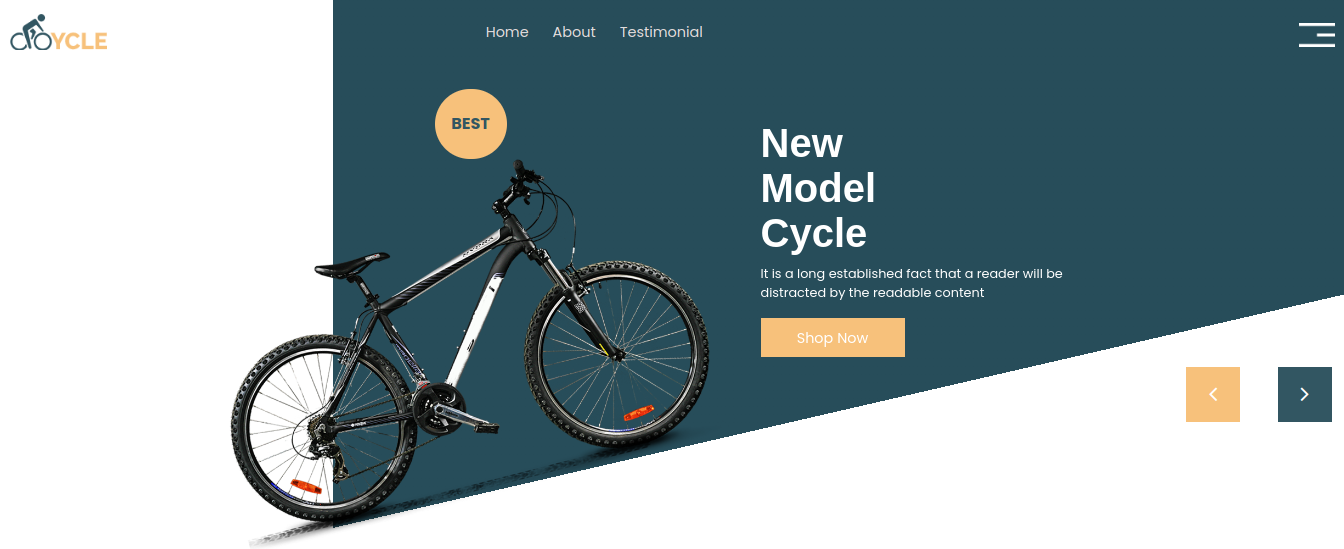
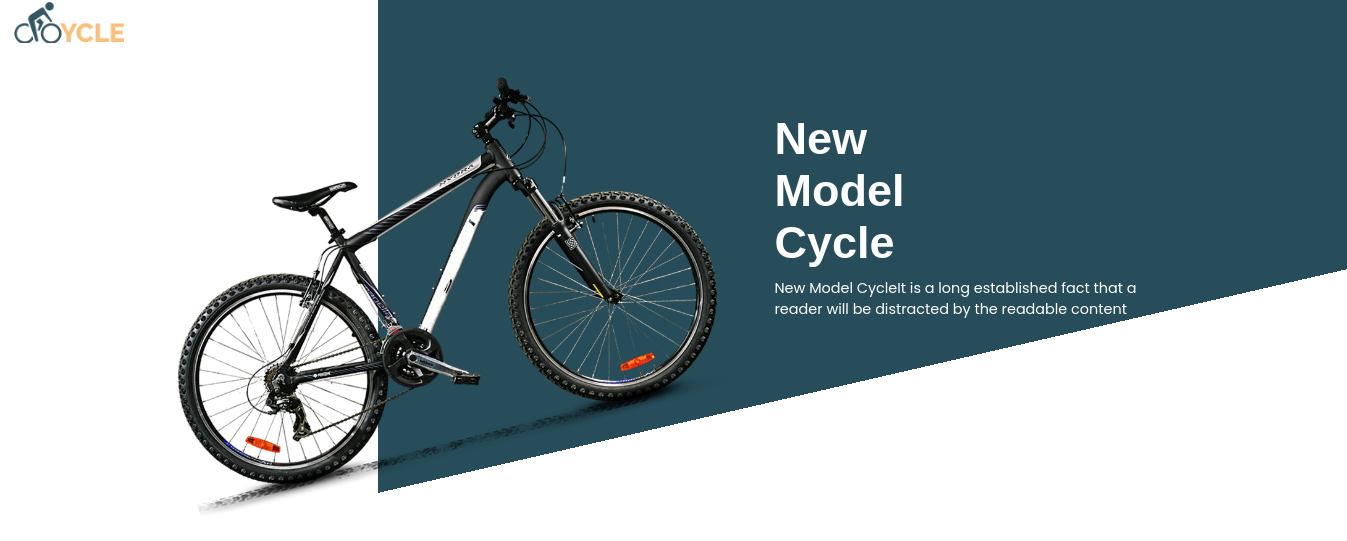
updated in cycle template

diff --git a/resources/views/template/live/cycle.blade.php b/resources/views/template/live/cycle.blade.php
@@ -48,7 +48,7 @@
     <!-- header section start -->
       <div class="header_section header_bg">
          <nav class="navbar navbar-expand-lg navbar-light bg-light">
-            <a href="index.html" class="logo"><img src="{{ asset($userTemplate->template->assets_path . '/images/logo.png')}}"></a>
+            <a href="index.html" class="logo"><img src="{{fetchImage($userTemplate->company_logo, $userTemplate->template->assets_path . '/images/logo.png')}}"></a>
             {{-- <button class="navbar-toggler" type="button" data-toggle="collapse" data-target="#navbarSupportedContent" aria-controls="navbarSupportedContent" aria-expanded="false" aria-label="Toggle navigation">
             <span class="navbar-toggler-icon"></span>
             </button>
@@ -78,7 +78,7 @@
                         <div class="row">
                            <div class="col-md-7">
                               {{-- <div class="best_text">Best</div> --}}
-                              <div class="image_1"><img src="{{fetchImage($hero_area['image'], $userTemplate->template->assets_path . '/images/product1.png')}}"></div>
+                              <div class="image_1"><img src="{{fetchImage($hero_area['image']??"", $userTemplate->template->assets_path . '/images/img-1.png')}}"></div>
                            </div>
                            <div class="col-md-5">
                               <h1 class="banner_taital">{{ $hero_area['title'] }}</h1>
@@ -136,7 +136,7 @@
                   <div class="col-md-6">
                      <div class="box_main_3">
                         {{-- <h6 class="number_text_2">02</h6> --}}
-                        <div class="image_2" style="margin-top: 100px!important"><img src="{{fetchImage($feature_area['image'], $userTemplate->template->assets_path . '/images/product1.png')}}"></div>
+                        <div class="image_2" style="margin-top: 100px!important"><img src="{{fetchImage($feature_area['image'], $userTemplate->template->assets_path . '/images/img-1.png')}}"></div>
                      </div>
                   </div>
                </div>
@@ -151,7 +151,7 @@
             <p class="about_text">{{ $about_area['description'] }}
             </p>
             <div class="about_main">
-               <img src="{{fetchImage($about_area['image'], $userTemplate->template->assets_path . '/images/product1.png')}}" class="image_5">
+               <img src="{{fetchImage($about_area['image']??"", $userTemplate->template->assets_path . '/images/img-1.png')}}" class="image_5">
             </div>
          </div>
       </div>

diff --git a/app/Http/Controllers/Template/CycleTemplateController.php b/app/Http/Controllers/Template/CycleTemplateController.php
@@ -44,8 +44,8 @@ class CycleTemplateController extends Controller
                 ["title" => "Order", "url" => "#order"]
             ]),
             'hero_area' => json_encode([
-                "title" => "Best quality smart watch only at Tk 2000.",
-                "description" => "Lorem ipsum dolor sit amet. Reprehenderit, qui blanditiis quidem rerum necessitatibus praesentium voluptatum deleniti atque corrupti, quos dolores eos.",
+                "title" => "New Model Cycle",
+                "description" => "New Model CycleIt is a long established fact that a reader will be distracted by the readable content",
                 "image" => null,
                 "button" => [
                     "title" => "Product Details",
@@ -61,7 +61,7 @@ class CycleTemplateController extends Controller
                 "background_color" => "#20bea7"
             ]),
             'features_area' => json_encode([
-                "features_title" => "Our Cycle",
+                "feature_title" => "Our Cycle",
                 "feature_subtitle" => "It is a long established fact that a reader will be distracted by the",
                 "feature_product_description"=>"It is a long established fact that a reader will be distracted by the readable content of a page when looking at its layout. The point of using Lorem Ipsum is that it has a more-or-less normal distribution of letters",
                 "image" => null,

diff --git a/database/seeders/UserTemplateSeeder.php b/database/seeders/UserTemplateSeeder.php
@@ -25,7 +25,7 @@ class UserTemplateSeeder extends Seeder
             'company_name' => 'Example Company Ltd.',
             'company_slug' => Str::slug('Example Company'),
             'fav_icon' => 'favicon.ico',
-            'company_logo' => 'logo.png',
+            'company_logo' => null,
             'product_name' => 'Example Product',
             'shipping_cost_inside_dhaka' => 100.00,
             'shipping_cost_outside_dhaka' => 200.00,
